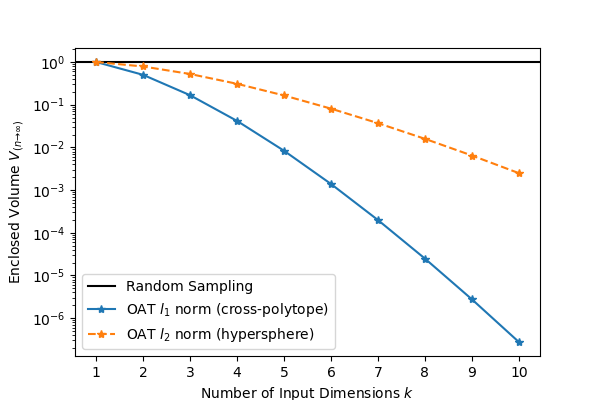
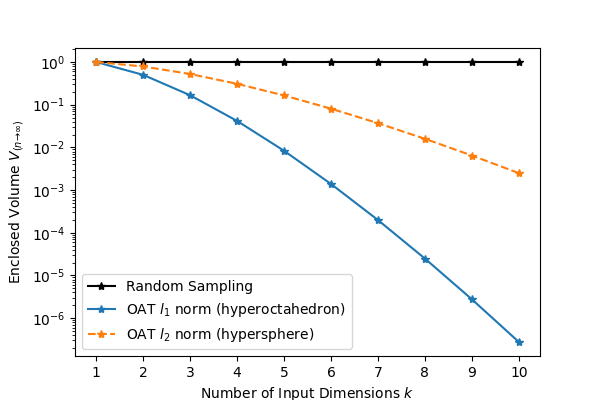
Set up separate .bib file

diff --git a/papers/scott_shambaugh/00_shambaugh.rst b/papers/scott_shambaugh/00_shambaugh.rst
@@ -1,5 +1,6 @@
 :author: W Scott Shambaugh
 :email: wsshambaugh@gmail.com
+:bibliography: refs
 
 
 -----------------------------------------------------------------------------------
@@ -21,7 +22,7 @@ Introduction
 
 Computational models form the backbone of decision-making processes in science, engineering, and public policy. However, our increased reliance on these models stands in contrast to the difficulty in understanding them as we add increasing complexity to try and capture ever more of the fine details of real-world interactions. Practitioners will often take the results of their large, complex model as a point estimate, with no knowledge of how uncertain those results are. Multiple-scenario modeling (e.g. looking at a worst-case, most-likely, and best-case scenario) is an improvement, but what is needed is a complete global exploration of the input space. That gives insight into the overall distribution of results (UA) as well as the relative influence of the different input factors on the ouput variance (SA). This complete understanding is critical for effective and responsible use of models in any decision-making process.
 
-Despite the importance of UA and SA in modeling, a recent literature review of the most highly cited papers across a wide range of disciplines showed that they are uncommon in most fields. And even when performed, best practices are usually lacking - amongst papers which specifically claimed to perform sensitivity analysis, only 21% performed global (as opposed to local or zero) UA and 41% performed global SA. [Sat01]_ 
+Despite the importance of UA and SA in modeling, a recent literature review of the most highly cited papers across a wide range of disciplines showed that they are uncommon in most fields. And even when performed, best practices are usually lacking - amongst papers which specifically claimed to perform sensitivity analysis, only 21% performed global (as opposed to local or zero) UA and 41% performed global SA. :cite:`saltelli2019so` 
 
 Typically UA and SA are done using Monte Carlo simulations, for reasons explored in the following section. There are Monte Carlo frameworks available, however existing options are domain-specific, focused on narrow sub-problems (i.e. integration), tailored towards training neural nets, or require a deep statistical background to use (TODO: lots of references). For the domain expert who is not a statistician and wants to perform UA and SA on their existing models, there are no good options. *monaco* was written to address this gap.
 
@@ -32,7 +33,7 @@ Why Monte Carlos?
 Mathematical Grounding
 ----------------------
 
-Randomized Monte Carlo sampling offers a cure to the curse of dimensionality - consider an investigation of the output from :math:`k` input factors :math:`y = f(x_1, x_2, ..., x_k)` where each factor is uniformly sampled between 0 and 1, :math:`x_i \in U[0, 1]`. The input space is then a :math:`k`-dimensional hypercube with volume 1. If each input is varied one at a time (OAT), then points which are sampled lie on the principle axes passing through the point :math:`x_{i\in[1, ..., k]} = 0.5`. The volume of the sample space as :math:`n \to \infty` is the convex hull of these axes, which for the :math:`l_1` norm forms a :math:`k`-dimensional cross-polytope with volume :math:`\frac{1}{k!}` (or most optimistically, a :math:`l_2` norm hypersphere with volume :math:`\frac{\pi^{k/2}}{2^k \Gamma(k/2 + 1)}`), both of which decrease super-exponentially as :math:`k` increases. Unless the model is known to be linear, this is a wholly inadequate method to sample the input space. In contrast, the volume of the convex hull of random samples as is obtained with a Monte Carlo approach will converge to the entire input volume as :math:`n \to \infty` (with much better coverage within that volume as well). (TODO: references) See Fig. :ref:`figvolume`.
+Randomized Monte Carlo sampling offers a cure to the curse of dimensionality - consider an investigation of the output from :math:`k` input factors :math:`y = f(x_1, x_2, ..., x_k)` where each factor is uniformly sampled between 0 and 1, :math:`x_i \in U[0, 1]`. The input space is then a :math:`k`-dimensional hypercube with volume 1. If each input is varied one at a time (OAT), then points which are sampled lie on the principle axes passing through the point :math:`x_{i\in[1, ..., k]} = 0.5`. The volume of the sample space as :math:`n \to \infty` is the convex hull of these axes, which for the :math:`l_1` norm forms a :math:`k`-dimensional hyperoctahedron with volume :math:`\frac{1}{k!}` (or most optimistically, a :math:`l_2` norm hypersphere with volume :math:`\frac{\pi^{k/2}}{2^k \Gamma(k/2 + 1)}`), both of which decrease super-exponentially as :math:`k` increases. Unless the model is known to be linear, this is a wholly inadequate method to sample the input space. In contrast, the volume of the convex hull of random samples as is obtained with a Monte Carlo approach will converge to the entire input volume as :math:`n \to \infty` (with much better coverage within that volume as well). (TODO: references) See Fig. :ref:`figvolume`.
 
 .. figure:: hypersphere_volume.png
    :align: center
@@ -52,11 +53,11 @@ With computational power making running large numbers of cases ever easier, a Mo
 
 This is not to say that UA and SA should not be conducted early in the model development process - indeed, obtaining the range of plausible output uncertainties is a critical prerequisite to conducting model validation. Test data cannot be well compared against a point estimate of a model's output, and it is necessary to have the full distribution of output values to compare test data against. Once a Monte Carlo analysis has generated these distributions, hypothesis testing or probablistic prediction measures like the Brier score or log loss can be used to anchor the model against real-life test data.
 
-Some benefits are more qualitative. Monte Carlo analysis is an excellent way to uncover unexpected edge cases in a model through unexpected combinations of inputs, especially in highly nonlinear models. This is the core concept behind "fuzzing" techniques in software testing. [Sat01]_ identifies this as one reason why researchers might (reflexively or unscrupulously) avoid UA and SA - it forces them to address the gaps in their models and makes it more difficult to explain away inconvenient results.
+Some benefits are more qualitative. Monte Carlo analysis is an excellent way to uncover unexpected edge cases in a model through unexpected combinations of inputs, especially in highly nonlinear models. This is the core concept behind "fuzzing" techniques in software testing. :cite:`saltelli2019so` identifies this as one reason why researchers might (reflexively or unscrupulously) avoid UA and SA - it forces them to address the gaps in their models and makes it more difficult to explain away inconvenient results.
 
 While Monte Carlo analysis is not strictly necessary for linear models, it is often an easier and conceptually simpler way to compute the propogation of uncertainties and sensitivities through a model than using linear-specific methods. And by making nonlinear models easier to examine, there should be less of a need to make linearity assumptions about a system in the first place.
 
-One inherent pitfall of Monte Carlo approaches is that rare events may be undersampled (or unmodeled). For example, NASA uses Monte Carlo simulations extensively during launch vehicle design to predict the rocket trajectory and performance. [Han01]_ However, they must prove robustness to anomalous or stressing scenarios which may occur only one or two times in a run of thousands of cases, which is not enough to draw conclusions from. In instances such as this, rare event scenarios should be investigated directly.
+One inherent pitfall of Monte Carlo approaches is that rare events may be undersampled (or unmodeled). For example, NASA uses Monte Carlo simulations extensively during launch vehicle design to predict the rocket trajectory and performance. :cite:`hanson2010applying` However, they must prove robustness to anomalous or stressing scenarios which may occur only one or two times in a run of thousands of cases, which is not enough to draw conclusions from. In instances such as this, rare event scenarios should be investigated directly.
 
 Note that *monaco*'s computational and storage overhead in creating easily-iterrogatable objects for each variable, value, and case makes it an inefficient choice for computationally simple applications with high :math:`n`, such as Monte Carlo integration. It is best suited for models with moderate to high computational cost. *monaco* also trades the greater computational efficiency of methods such as importance sampling or bayesian methods in favor of the conceptual simplicity of random sampling.
 
@@ -72,7 +73,7 @@ Note that *monaco* does not currently have tools for model testing and validatio
    :align: center
    :figclass: h
 
-   Monte Carlo workflow for understanding the full behavior of a computational model, inspired by [Sat01]_. :label:`figanalysisprocess`
+   Monte Carlo workflow for understanding the full behavior of a computational model, inspired by :cite:`saltelli2019so`. :label:`figanalysisprocess`
 
 
 
@@ -95,7 +96,7 @@ Simulation Setup
 ----------------
 The base of a *monaco* simulation is the `Sim` object. This object is formed by passing it a name, the number of random cases `ncases`, and a dict `fcns` of the handles for three user-defined functions explained below. A random seed that then seeds the entire simulation can also be passed in here, and is highly recommended for repeatability of results.
 
-Input variables then need to be defined. *monaco* takes in the handle to any of `scipy.stat`'s continuous or discrete probability distributions, as well as the required arguments for that probability distribution. (TODO: ref). If nonnumeric inputs are desired, the method can also take in a `nummap` dictionary which maps randomly drawn integers to values of other types.
+Input variables then need to be defined. *monaco* takes in the handle to any of `scipy.stat`'s continuous or discrete probability distributions, as well as the required arguments for that probability distribution. :cite:`virtanen2020scipy`. If nonnumeric inputs are desired, the method can also take in a `nummap` dictionary which maps randomly drawn integers to values of other types.
 
 At this point the sim can be run. The randomized drawing of input values, creation of cases, running of those cases, and extraction of output values are automatically executed. 
 
@@ -168,15 +169,11 @@ Sampling Methods
 Random sampling of the percentiles for each variable can be done using scipy's pseudo-random number generator (PRNG), or with any of the low-discrepancy methods in `scip.stats.qmc` Quasi-Monte Carlo module. In general, the `'sobol_random'` method that generates Sobol sequences with Owen scrambling (TODO: ref) is recommended in nearly all cases as a well-performing quasi-random sequence with the best known convergence, balanced integration properties as long as the number of cases is a power of 2, and a fairly flat frequency spectra. This is set as default. In cases where computing sample points takes a  prohibitively long amount of time, users may fall back to `'random'` sampling directly from the PRNG at the cost of less even distribution of points in the input space. See Fig. :ref:`figsampling` for a visual comparison.
 
 
-.. figure:: sobol_random_sampling.png
+.. figure:: sampling.png
    :align: center
    :figclass: h
 
-.. figure:: random_sampling.png
-   :align: center
-   :figclass: h
-
-   Uniform and normal samples along with the 2D frequency spectra for scrambled Sobol sampling (top, default) and PRNG random sampling (bottom). TODO: combine into one image. :label:`figsampling`
+   256 uniform and normal samples along with the 2D frequency spectra for scrambled Sobol sampling (top, default) and PRNG random sampling (bottom). :label:`figsampling`
 
 
 Order Statistics, or, How Many Cases to Run?
@@ -184,7 +181,7 @@ Order Statistics, or, How Many Cases to Run?
 
 How many Monte Carlo cases should one run? One answer would be to choose :math:`n \geq 2^k` for a sampling method that implements a (t,m,s)-net (such as a Sobol or Halton sequence), which guarentees that there will be at least one sample point in every hyperoctant of the input space. (TODO: reference) However this will undersample for low :math:`k` and may be infeasible for high :math:`k`.
 
-A rigorous way of choosing the number of cases is to first choose an output percentile or tolerance interval of the population which is desired to contain a sample with a target value, and then use order statistics to calculate the :math:`n` required to obtain that result with a desired confidence level. *monaco* implements routines for calculating these statistical intervals via an order statistics distribution-free approach with no assumptions about the normality or other shape characteristics of the output distribution. See Chaper 5 of [Hah01]_.
+A rigorous way of choosing the number of cases is to first choose an output percentile or tolerance interval of the population which is desired to contain a sample with a target value, and then use order statistics to calculate the :math:`n` required to obtain that result with a desired confidence level. *monaco* implements routines for calculating these statistical intervals via an order statistics distribution-free approach with no assumptions about the normality or other shape characteristics of the output distribution. See Chaper 5 of :cite:`hahn2011statistical`.
 
 A more qualitative method would simply to choose a reasonably high :math:`n` (say, :math:`n=2^{10}`), manually examine the results to ensure high-interest areas are not being undersampled, and rely on bootstrapping of the desired variable statistics to obtain the required significance levels. 
 
@@ -200,7 +197,7 @@ Sensitivity Indices
 
 Sensitivity indices give a measure of the relationship between the variance of a scalar output variable to the variance of each of the input variables. In other words, they measure which of the inputs has the largest effect on the outputs. It is crucial that sensitivity indices are global rather than local measures - global sensitivity has the stronger theoretical grounding and there is no reason to rely on local measures in scenarios such as automated computer experiments where data can be easily and aribitrarily sampled.
 
-With computer-designed experiments, it is possible to contruct a specially constructed sample set to directly calculate sensitivity indices such as the Total-Order Sobol index, or the IVARS100 index. (TODO: references). However, this special construction requires either sacrificing the desirable UA properties of low-discrepancy sampling, or conducting an additional Monte Carlo analysis of the model with a different sample set. For this reason, *monaco* uses the D-VARS approach to calculating global sensitivity indices, which allows for using a set of given data [She01]_. This is the first publically available implementation of the D-VARS algorithm.
+With computer-designed experiments, it is possible to contruct a specially constructed sample set to directly calculate sensitivity indices such as the Total-Order Sobol index, or the IVARS100 index. (TODO: references). However, this special construction requires either sacrificing the desirable UA properties of low-discrepancy sampling, or conducting an additional Monte Carlo analysis of the model with a different sample set. For this reason, *monaco* uses the D-VARS approach to calculating global sensitivity indices, which allows for using a set of given data :cite:`sheikholeslami2020fresh`. This is the first publically available implementation of the D-VARS algorithm.
 
 
 Plotting
@@ -211,7 +208,7 @@ Plotting
 Parallel Processing
 -------------------
 
-*monaco* uses *dask distributed* [Roc01]_ as a parallel processing backend, and supports preprocessing, running, and postprocessing cases in a parallel arrangement. Users familiar with *dask* can extend the parallelization of their simulation from their single machine to a distributed cluster.
+*monaco* uses *dask distributed* :cite:`rocklin2015dask` as a parallel processing backend, and supports preprocessing, running, and postprocessing cases in a parallel arrangement. Users familiar with *dask* can extend the parallelization of their simulation from their single machine to a distributed cluster.
 
 For simple simulations such as the example code at the end of the paper, the overhead of setting up a *dask* server may outweigh the speedup from parallel computation, and in those cases *monaco* also supports running single-threaded in a single for-loop.
 
@@ -317,22 +314,3 @@ Further Information
 ===================
 
 *monaco* is available on PyPI, has API documentation at https://monaco.rtfd.io/, and is hosted on github at https://github.com/scottshambaugh/monaco/. Please see the "examples" directory in the github source for many more Monte Carlo implementation examples across a range of domains such as physics simulation, election prediction, financial modeling, pandemic spread, and integration.
-
-
-References
-==========
-
-TODO: flesh out references with DOIs and move to a .bib
-
-.. [Hah01] Hahn, G. J., & Meeker, W. Q. "Statistical intervals: a guide for practitioners" (Vol. 92). John Wiley & Sons. 2001.
-
-.. [Han01] Hanson, J.M. and B.B. Beard. *Applying Monte Carlo Simulation to Launch Vehicle Design and Requirements Analysis*, Marshall Space Flight Center NASA/TP-2010-216447, September 2010.
-
-.. [Roc01] Rocklin, Matthew. "Dask: Parallel computation with blocked algorithms and task scheduling." Proceedings of the 14th python in science conference. Vol. 130. Austin, TX: SciPy, 2015.
-
-.. [Sat01] Saltelli, A. et al. *Why so many published sensitivity analyses are false: A systematic review of sensitivity analysis practices*, Environmental Modelling & Software, Vol 114:29-39, April 2019.
-
-.. [She01] Sheikholeslami, Razi, and Saman Razavi. "A fresh look at variography: measuring dependence and possible sensitivities across geophysical systems from any given data." Geophysical Research Letters 47.20 (2020): e2020GL089829.
-
-
-
